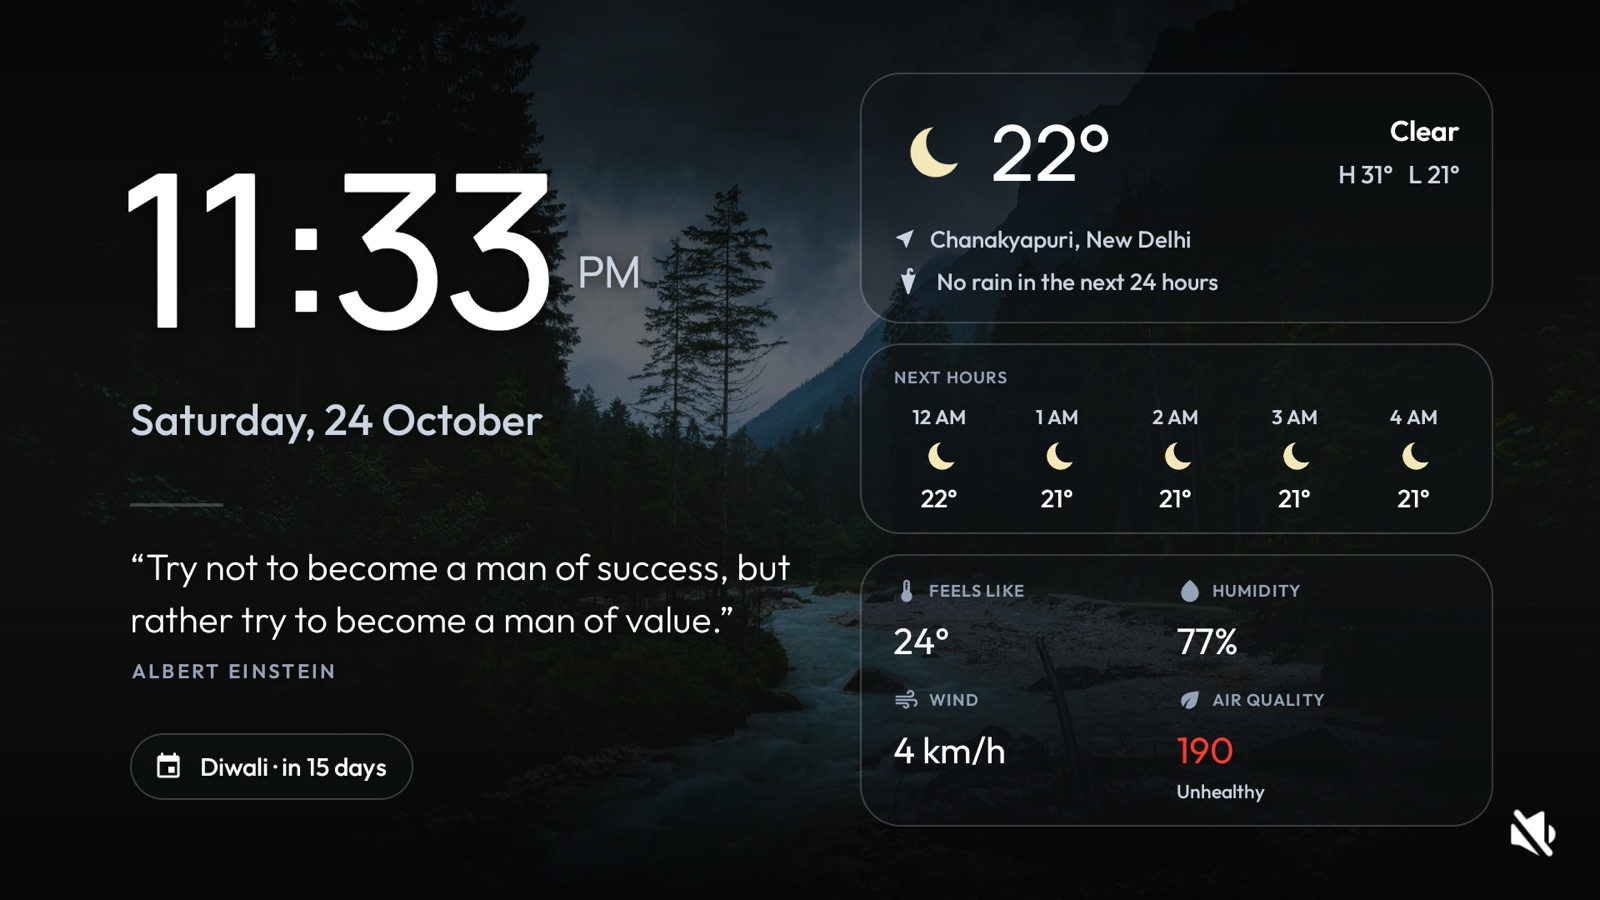
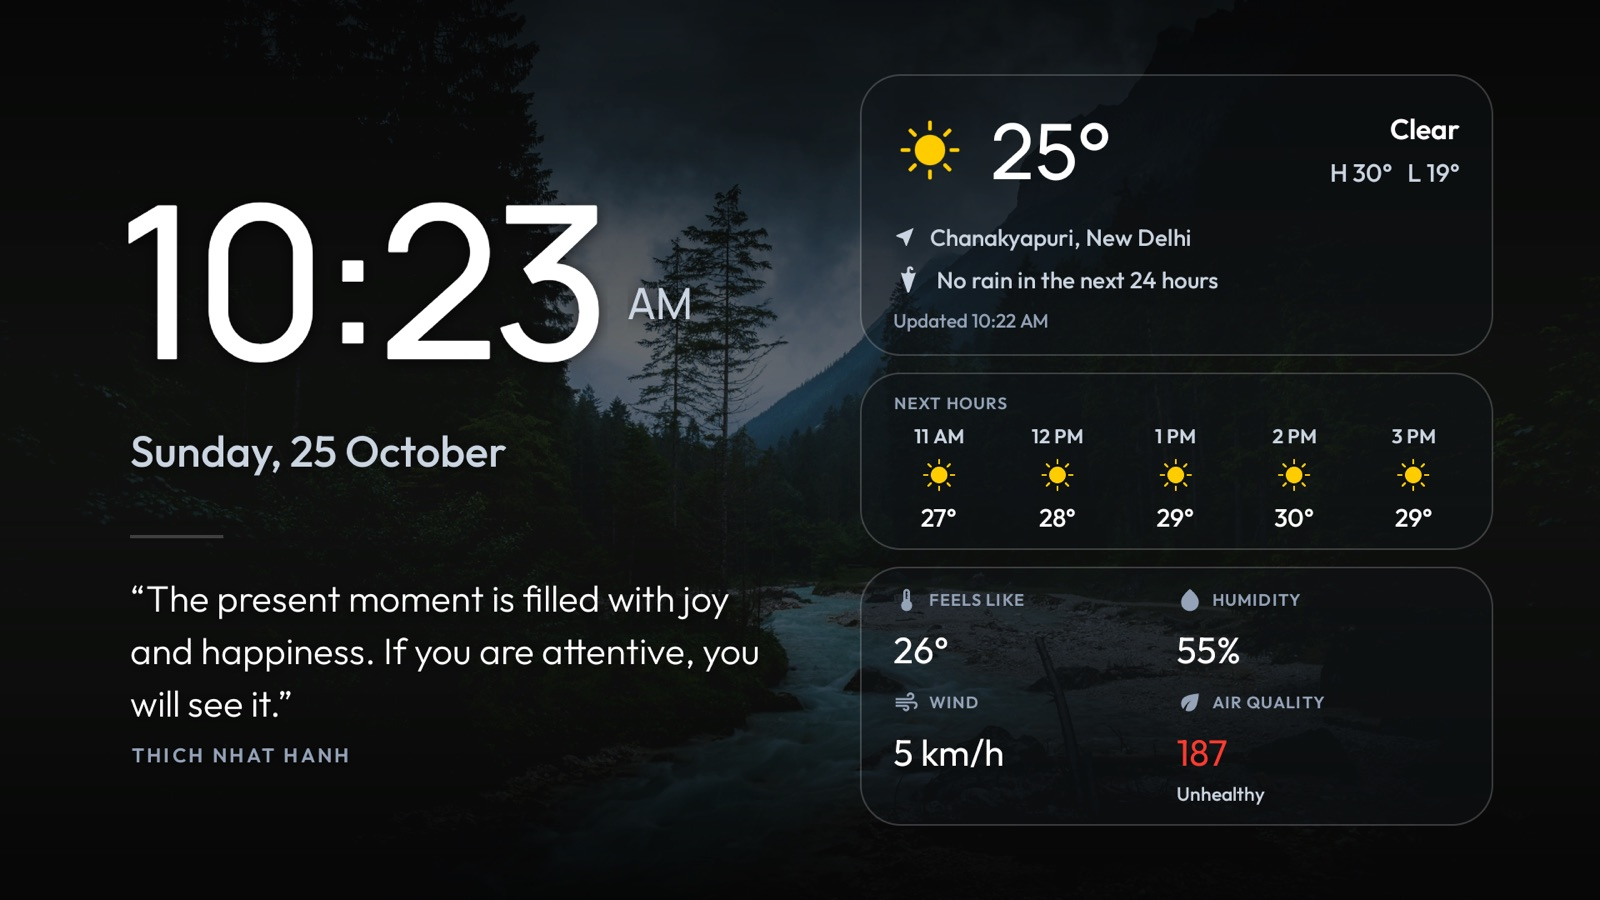
feat: weather shows only the time it was last updated; fresh screenshots
- The weather's "Updated" line no longer names the forecast service:
  just "Updated 10:22 AM" (orange when over two hours old). Open-Meteo
  stays credited in the README, as its licence asks.
- README screenshots retaken on the TV: home and the screensaver without
  the festival pill.

diff --git a/launcher/app/src/main/java/com/gathin/tvhome/WeatherHelper.java b/launcher/app/src/main/java/com/gathin/tvhome/WeatherHelper.java
@@ -194,7 +194,7 @@ public class WeatherHelper {
     /** Older than this, the "Updated" line is shown as stale (no fresh data, e.g. while offline). */
     public static final long STALE_AFTER_MS = 2 * 3600_000L;
 
-    /** "Updated 9:41 AM", "Updated yesterday, 9:41 PM" or "Updated 22 Oct, 9:41 PM", plus the source. */
+    /** "Updated 9:41 AM", "Updated yesterday, 9:41 PM" or "Updated 22 Oct, 9:41 PM". */
     public static String updatedLabel(long fetchedAtMs, long nowMs, Locale locale) {
         java.util.Calendar at = java.util.Calendar.getInstance();
         at.setTimeInMillis(fetchedAtMs);
@@ -212,7 +212,7 @@ public class WeatherHelper {
                     && at.get(java.util.Calendar.DAY_OF_YEAR) == yesterday.get(java.util.Calendar.DAY_OF_YEAR);
             when = (isYesterday ? "yesterday" : new SimpleDateFormat("d MMM", locale).format(at.getTime())) + ", " + time;
         }
-        return "Updated " + when + "  ·  Open-Meteo";
+        return "Updated " + when;
     }
 
     /** US AQI category name. */

diff --git a/launcher/app/src/test/java/com/gathin/tvhome/WeatherHelperTest.java b/launcher/app/src/test/java/com/gathin/tvhome/WeatherHelperTest.java
@@ -157,9 +157,9 @@ public class WeatherHelperTest {
         java.util.TimeZone saved = java.util.TimeZone.getDefault();
         java.util.TimeZone.setDefault(java.util.TimeZone.getTimeZone("Asia/Kolkata"));
         try {
-            assertEquals("Updated 9:41 AM  ·  Open-Meteo", WeatherHelper.updatedLabel(delhi(25, 9, 41), now, en));
-            assertEquals("Updated yesterday, 11:30 PM  ·  Open-Meteo", WeatherHelper.updatedLabel(delhi(24, 23, 30), now, en));
-            assertEquals("Updated 22 Oct, 8:05 PM  ·  Open-Meteo", WeatherHelper.updatedLabel(delhi(22, 20, 5), now, en));
+            assertEquals("Updated 9:41 AM", WeatherHelper.updatedLabel(delhi(25, 9, 41), now, en));
+            assertEquals("Updated yesterday, 11:30 PM", WeatherHelper.updatedLabel(delhi(24, 23, 30), now, en));
+            assertEquals("Updated 22 Oct, 8:05 PM", WeatherHelper.updatedLabel(delhi(22, 20, 5), now, en));
         } finally {
             java.util.TimeZone.setDefault(saved);
         }

diff --git a/launcher/app/src/main/java/com/gathin/tvhome/MainActivity.java b/launcher/app/src/main/java/com/gathin/tvhome/MainActivity.java
@@ -900,7 +900,7 @@ public class MainActivity extends Activity implements AppAdapter.TileListener {
         return R.drawable.ic_cloudy;
     }
 
-    /** "Updated 9:41 AM · Open-Meteo" under the weather; orange when the data is over two hours old. */
+    /** "Updated 9:41 AM" under the weather; orange when the data is over two hours old. */
     static void showUpdated(TextView view, long fetchedAtMs) {
         if (view == null) return;
         if (fetchedAtMs <= 0) {
